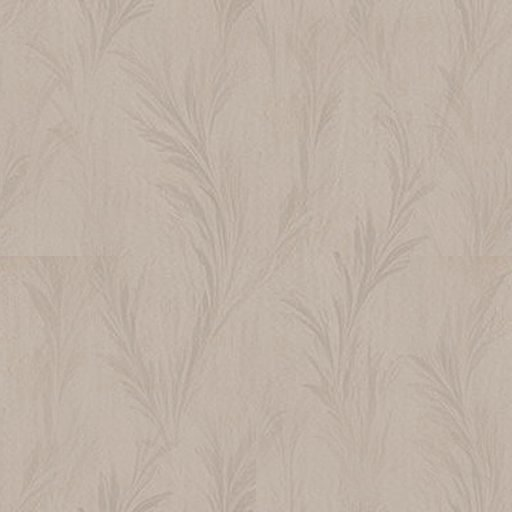
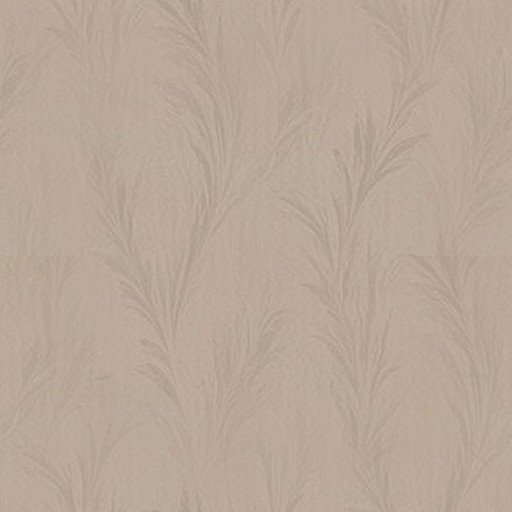
v14s11: interior photo stickers per surface (main/side wall, skirt, ceiling)

diff --git a/v14/app.js b/v14/app.js
@@ -2,7 +2,7 @@ import * as THREE from 'three';
 import { OrbitControls } from 'three/addons/controls/OrbitControls.js';
 import { RoomEnvironment } from 'three/addons/environments/RoomEnvironment.js';
 import { RoundedBoxGeometry } from 'three/addons/geometries/RoundedBoxGeometry.js';
-import { CATALOG, RULES, ARTS } from './catalog.js?v=v14s10';
+import { CATALOG, RULES, ARTS } from './catalog.js?v=v14s11';
 
 const $ = id => document.getElementById(id);
 const MM = 0.001;
@@ -271,9 +271,9 @@ function normalTex(v, str) {
 function setWallCol(m, c) { const col = new THREE.Color(c); m.color.copy(col).multiplyScalar(m.userData.kd); m.emissive.copy(col).multiplyScalar(m.userData.ke); }
 const NSTR = { brick: 7, stone: 7, slats: 6, woodp: 3, conc2: 2.2, beige: 2.6, koroed: 3, trav: 2 };
 const PHW = { brick: ['painted_brick', 1.04, 1.6], beige: ['beige_wall_001', 2.4, 1, 1.1], lime: ['white_plaster_02', 2.2, 1] };
-function wallMat() { const IN = S.interior != null, v = IN ? 'intp' : finVar(), ph = IN ? ['int_paper', 1.3, 0.3, 1.05] : PHW[v];
+function wallMat(sd) { const IN = S.interior != null, v = IN ? 'intp' : finVar(), ph = IN ? [sd ? 'int_side' : 'int_paper', 1.3, 0.3, 1.05] : PHW[v];
   if (ph) { const rp = (1 / ph[1]).toFixed(4), sunM = S.room.shP === 'sun', m = new THREE.MeshStandardMaterial({ map: tex(ph[0] + '_diff', true, rp), emissiveMap: tex(ph[0] + '_diff', true, rp), normalMap: tex(ph[0] + '_nor_gl', false, rp), normalScale: new THREE.Vector2(ph[2], ph[2]), roughnessMap: tex(ph[0] + '_rough', false, rp), roughness: 1, metalness: 0, envMapIntensity: 0.35, toneMapped: false });
-    const gn = ph[3] || 1, lf = v === 'brick'; m.userData = lf ? { wall: true, kd: 0.52, ke: 0.52 } : { wall: true, kd: (sunM ? 0.6 : 0.66) * gn, ke: (sunM ? 0.36 : 0.38) * gn }; if (lf) m.roughness = 0.85; setWallCol(m, IN ? '#ffffff' : S.wall); return m; }
+    const gn = ph[3] || 1, lf = v === 'brick'; m.userData = lf ? { wall: true, kd: 0.52, ke: 0.52 } : { wall: true, kd: (sunM ? 0.6 : 0.66) * gn, ke: (sunM ? 0.36 : 0.38) * gn }; if (lf) m.roughness = 0.85; setWallCol(m, IN ? '#f2f9ff' : S.wall); return m; }
   const t = finishTex(v).clone(); t.needsUpdate = true; const k = FINK[v] || 0.9; t.repeat.set(1 / k, 1 / k); const n = normalTex(v, NSTR[v] || 1.4).clone(); n.needsUpdate = true; n.repeat.copy(t.repeat);
   const sunM = S.room.shP === 'sun', m = new THREE.MeshStandardMaterial({ map: t, emissiveMap: t, normalMap: n, roughness: 0.93, metalness: 0, envMapIntensity: 0.25, toneMapped: false });
   m.userData = { wall: true, kd: sunM ? 0.55 : 0.62, ke: sunM ? 0.4 : 0.42 }; /* lit PBR wall: relief reads in the light, emissive keeps the color clean */ setWallCol(m, S.wall); return m; }
@@ -696,13 +696,13 @@ function buildRoom() {
     const sh = new THREE.Shape(); sh.moveTo(-w / 2, -WH / 2); sh.lineTo(w / 2, -WH / 2); sh.lineTo(w / 2, WH / 2); sh.lineTo(-w / 2, WH / 2); sh.lineTo(-w / 2, -WH / 2);
     holes.forEach(o => { const x0 = o.c - o.w / 2, y0 = Math.max(o.b, 0.002) - WH / 2, p = new THREE.Path(); p.moveTo(x0, y0); p.lineTo(x0 + o.w, y0); p.lineTo(x0 + o.w, o.b + o.h - WH / 2); p.lineTo(x0, o.b + o.h - WH / 2); p.lineTo(x0, y0); sh.holes.push(p); });
     const geo = new THREE.ShapeGeometry(sh), grp = new THREE.Group(); grp.position.set(x, WH / 2, z); grp.rotation.y = ry; parent.add(grp);
-    if (!ST) { const wm = new THREE.Mesh(geo, wallMat()); wm.receiveShadow = S.room.shP === 'sun'; grp.add(wm); }
+    if (!ST) { const wm = new THREE.Mesh(geo, wallMat(parent !== bk)); wm.receiveShadow = S.room.shP === 'sun'; grp.add(wm); }
     const q = new THREE.Mesh(geo, wallShadowMat()); q.receiveShadow = true; grp.add(q);
     holes.forEach(o => buildOpening(grp, o, WH)); grp.userData.wallG = true; return grp;
   };
   const bo = ops.filter(o => o.wall === 'B').map(o => ({ ...o, c: o.x - cx }));
   bk.userData.occ = wallPlane(right - left, cx, 0, 0, bk, bo);
-  const skM = new THREE.MeshBasicMaterial({ color: S.room.skirtColor || '#f6f5f2', toneMapped: false }); skM.userData.flat = true; /* v13b: unlit plinth - same colour at any rotation, no shading/shadow/AO */
+  const skM = S.interior != null ? new THREE.MeshBasicMaterial({ map: tex('int_skirt_diff', true, 1), toneMapped: false }) : new THREE.MeshBasicMaterial({ color: S.room.skirtColor || '#f6f5f2', toneMapped: false }); skM.userData.flat = true; /* v13b: unlit plinth - same colour at any rotation, no shading/shadow/AO */
   // skirting runs along u (local x of a wall frame), cut at doors
   const skirt = (parent, u0, u1, cuts, place) => { let segs = [[u0, u1]]; cuts.forEach(([a, b]) => { segs = segs.flatMap(([s, e]) => b <= s || a >= e ? [[s, e]] : [[s, a], [b, e]].filter(([p, q]) => q - p > 0.01)); });
     segs.forEach(([s, e]) => { const g = new THREE.Group(); place(g); [[0.016, 0.08, 0.04, 0.008], [0.022, 0.012, 0.074, 0.011]].forEach(([d, h, y, z]) => { const m = box(e - s, h, d, (s + e) / 2, y, z, skM); m.castShadow = false; m.receiveShadow = false; m.renderOrder = 2; g.add(m); }); parent.add(g); }); };
@@ -735,7 +735,7 @@ function buildRoom() {
   // ceiling: one solid plane over the whole room, seen only from below
   const cg = new THREE.Group(); cg.userData.occC = CH; room.add(cg);
   if (S.interior != null) { const sp = new THREE.Mesh(new THREE.CircleGeometry(0.035, 24), new THREE.MeshBasicMaterial({ color: 0xfffaf0, toneMapped: false })); sp.rotation.x = Math.PI / 2; sp.position.set(cx, CH - 0.002, 1.2); cg.add(sp); }
-  if (S.room.ceiling || S.interior != null) { const ce = new THREE.Mesh(new THREE.PlaneGeometry(80, 80), new THREE.MeshBasicMaterial({ color: 0xffffff, toneMapped: false })); ce.rotation.x = Math.PI / 2; ce.position.set(cx, CH, 0); ce.renderOrder = -1; cg.add(ce);
+  if (S.room.ceiling || S.interior != null) { const ce = new THREE.Mesh(new THREE.PlaneGeometry(80, 80), new THREE.MeshBasicMaterial({ color: S.interior != null ? 0xf1e9df : 0xffffff, toneMapped: false })); ce.rotation.x = Math.PI / 2; ce.position.set(cx, CH, 0); ce.renderOrder = -1; cg.add(ce);
   }
   if (S.room.cornice) cornice(right - left, g => g.position.x = cx, bk);
   if (S.room.lamps) { const n = Math.max(2, Math.round((right - left) / 1.2)); for (let i = 0; i < n; i++) { const x = left + (right - left) * (i + 0.5) / n; const d = new THREE.Mesh(new THREE.CylinderGeometry(0.035, 0.035, 0.006, 24), new THREE.MeshBasicMaterial({ color: 0xfff6e6, toneMapped: false })); d.position.set(x, CH - 0.007, 0.9); cg.add(d); const rg = new THREE.Mesh(new THREE.CylinderGeometry(0.05, 0.05, 0.012, 32, 1, true), new THREE.MeshStandardMaterial({ color: 0x1d1e20, roughness: 0.35, metalness: 0.4, side: THREE.DoubleSide })); rg.position.set(x, CH - 0.006, 0.9); cg.add(rg); const rd = new THREE.Mesh(new THREE.RingGeometry(0.035, 0.05, 32), new THREE.MeshStandardMaterial({ color: 0x1d1e20, roughness: 0.35, metalness: 0.4 })); rd.rotation.x = Math.PI / 2; rd.position.set(x, CH - 0.0121, 0.9); cg.add(rd); const pl = new THREE.PointLight(0xffe9cc, 1.0, 0, 2); pl.position.set(x, CH - 0.12, 0.9); cg.add(pl); } }

diff --git a/v14/index.html b/v14/index.html
@@ -2,7 +2,7 @@
 <meta http-equiv="Cache-Control" content="no-cache, no-store, must-revalidate"><meta http-equiv="Pragma" content="no-cache"><meta http-equiv="Expires" content="0"><meta charset="utf-8"><meta name="viewport" content="width=device-width,initial-scale=1,maximum-scale=1">
 <link rel="icon" href="data:,"><title>Конструктор гардеробной ТИТАН GS</title>
 <link rel="preconnect" href="https://fonts.googleapis.com"><link rel="preconnect" href="https://fonts.gstatic.com" crossorigin><link href="https://fonts.googleapis.com/css2?family=Inter:wght@400;500;700;800&family=Manrope:wght@400;500;600;700;800&family=Montserrat:wght@400;500;700;800&family=Playfair+Display:wght@500;600;700&display=swap" rel="stylesheet">
-<link rel="stylesheet" href="style.css?v=v14s10">
+<link rel="stylesheet" href="style.css?v=v14s11">
 <script type="importmap">{"imports":{"three":"https://cdn.jsdelivr.net/npm/three@0.160.0/build/three.module.js","three/addons/":"https://cdn.jsdelivr.net/npm/three@0.160.0/examples/jsm/"}}</script>
 </head><body>
 <div id="topbar"><div class="seg" id="szV"></div><button id="mirrorBtn" title="Отзеркалить всю конструкцию">⇄<span class="mtx"> Зеркально</span></button><button id="fxBtn" class="snd" title="Эффект" aria-label="Эффект"><svg viewBox="0 0 24 24" fill="none" stroke="currentColor" stroke-width="1.7" stroke-linecap="round"><path d="M12 3v3M12 18v3M3 12h3M18 12h3M5.6 5.6l2.1 2.1M16.3 16.3l2.1 2.1M5.6 18.4l2.1-2.1M16.3 7.7l2.1-2.1"/><circle cx="12" cy="12" r="2.6"/></svg></button><button id="lensBtn" class="snd" title="Камера: Обычная" aria-label="Камера"><svg viewBox="0 0 24 24" fill="none" stroke="currentColor" stroke-width="1.7"><circle cx="12" cy="12" r="8"/><circle class="l2" cx="12" cy="12" r="4"/><path class="l3" d="M12 4v3M12 17v3M4 12h3M17 12h3"/></svg></button><button id="sndBtn" class="snd" title="Звук" aria-label="Звук"><svg viewBox="0 0 24 24" fill="none" stroke="currentColor" stroke-width="1.7" stroke-linecap="round" stroke-linejoin="round"><path d="M4 9.5h3.2L12 5.5v13l-4.8-4H4z"/><path class="w1" d="M15.5 9.2a4 4 0 0 1 0 5.6"/><path class="w2" d="M18.2 6.8a7.4 7.4 0 0 1 0 10.4"/><path class="mx" d="M16 9.5l5 5M21 9.5l-5 5"/></svg></button><button id="moreBtn" title="Сохранить, загрузить, ссылка, шаблоны, снимки">⋯</button>
@@ -107,5 +107,5 @@
 </div>
 <p class="foot">Размеры элементов взяты из каталога ТИТАН GS 2024. Визуализация ориентировочная.</p>
 </div></div>
-<script type="module" src="app.js?v=v14s10"></script>
+<script type="module" src="app.js?v=v14s11"></script>
 </body></html>
